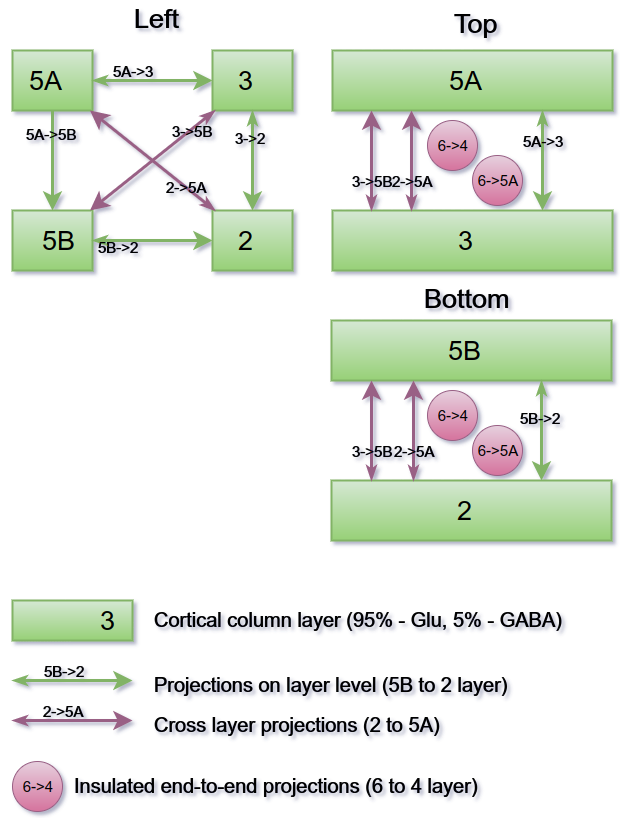
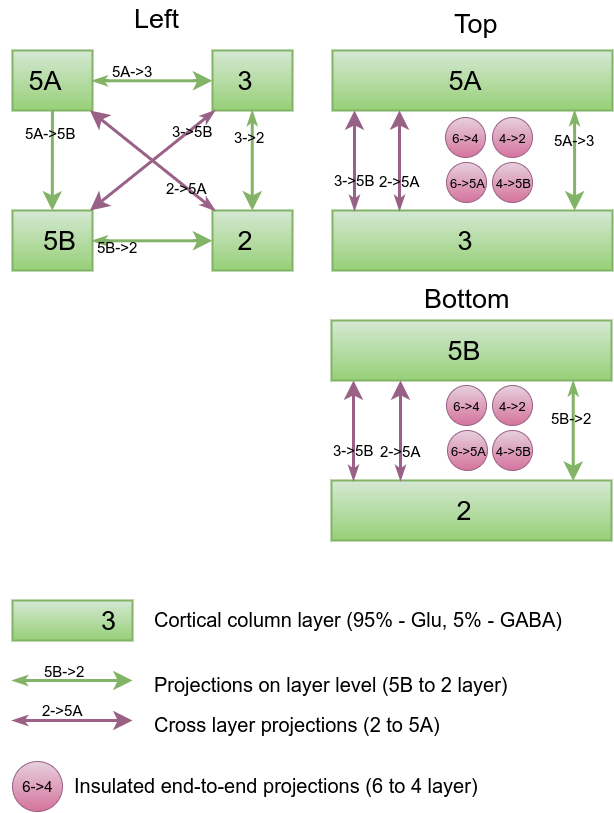
memristive brain: memristive modulatory neuron: stareted bio-plausible cortical column

diff --git a/doc/memristive-brain_technical_roadmap.md b/doc/memristive-brain_technical_roadmap.md
@@ -42,15 +42,24 @@ Silicon neurons | Neuron | 2\*10<sup>4</sup>
 
 ### Minimalistic implementation
 
-A minimalistic feed forward cortical should have following structure where each component is the 1 layer component presented [above](1_layer):
+A minimalistic feed forward cortical should have following structure where each component is the 1 layer component presented [above](1-layer):
 
 ![Cortical column minimal implementation](HL_memristive_brain_minimized_column.png)
 
-The biological 4th layer is inbound for thalamic projections. The 4th layer structure is presented in [1 layer](1_layer) section while all the rest are missing first *Metal connectors* component.
+The biological 4th layer is inbound for thalamic projections. The 4th layer structure is presented in [1 layer](1-layer) section while all the rest are missing first *Metal connectors* component.
 
 ### Bio-plausible implementation
 
+Simplified bio cortical column projections are presented on the diagram below Feldmeyer(2012):
+
 ![Bio cortical column](HL_memristive_brain_bio_cortical_column.png)
+
+*Glu* - are the glutamate projections that are excitatory 
+*GABA* - gamma-Aminobutyric acid inhibitory projections mainly internal to cortical column layer except for 6->4 inhibitory projections. 
+
+The inbound thalamic projections are inbound to 4th layer, outbound are from 2nd and 3rd layers to other cortical columns, and from 6th to thalamus.
+
+The implementation could be organized as 3D structure, where 4th layer projects to *5A*, *3* via electrical contact to their *Polyaniline memristors* components and projects to *5B*, *2* via 3D memristive channels. 
 
 ![Cortical column bio-plausible implementation](HL_memristive_brain_cortical_column.png)
 
@@ -66,4 +75,7 @@ The biological 4th layer is inbound for thalamic projections. The 4th layer stru
 Tsai, D., John, E., Chari, T., Yuste, R., & Shepard, K. (2015). High-channel-count, high-density microelectrode array for closed-loop investigation of neuronal networks. In Engineering in Medicine and Biology Society (EMBC), 2015 37th Annual International Conference of the IEEE (pp. 7510–7513). IEEE. Retrieved from http://ieeexplore.ieee.org/abstract/document/7320129/
 
 Fontana, M. P., & Erokhin, V. (2011). Thin Film Electrochemical Memristive Systems for Bio-Inspired Computation. Journal of Computational and Theoretical Nanoscience, 8(3). https://doi.org/10.1166/jctn.2011.1695
+
+Feldmeyer, D. (2012). Excitatory neuronal connectivity in the barrel cortex. Frontiers in Neuroanatomy, 6. https://doi.org/10.3389/fnana.2012.00024
+
 
